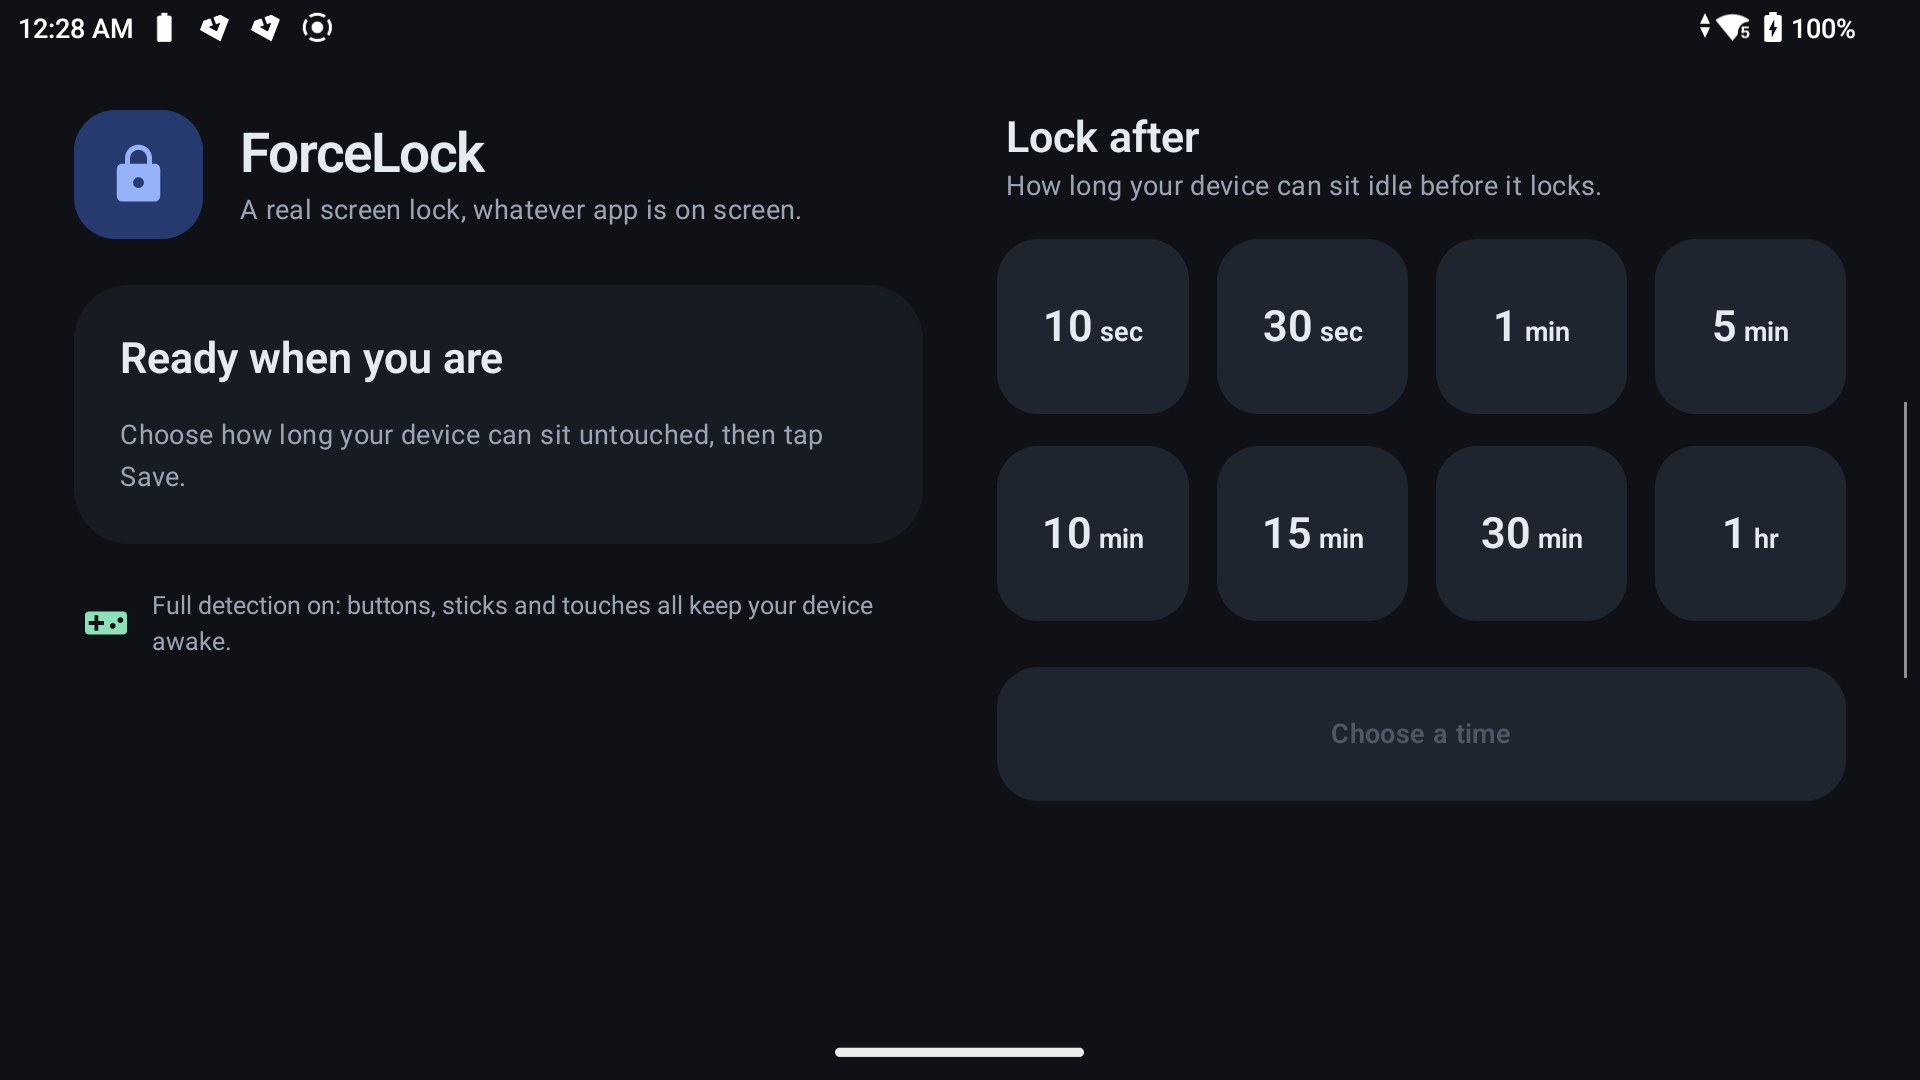
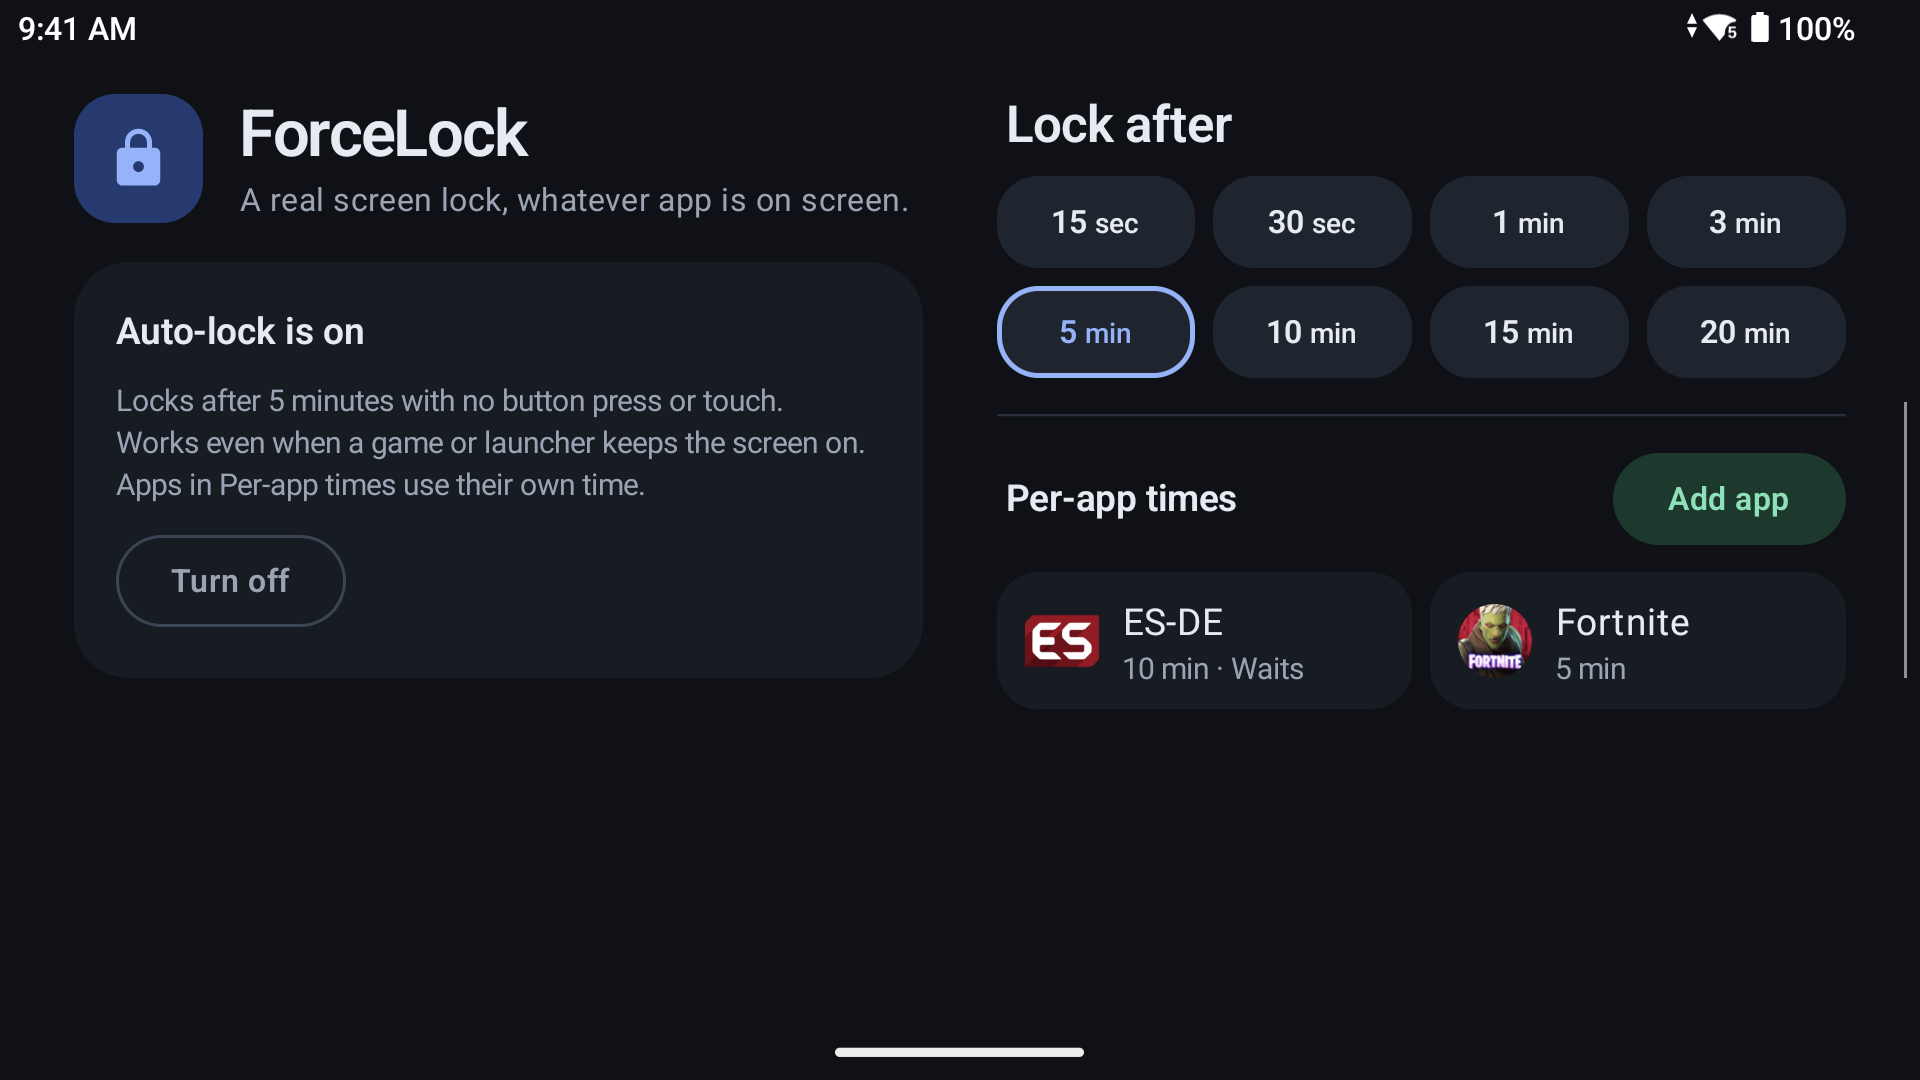
Update README screenshots for per-app times
Retake the setup and home screenshots on the Odin 2 Portal with the new
layout and lock times, and add one of the per-app dialog for ES-DE.

diff --git a/README.md b/README.md
@@ -10,8 +10,11 @@ Made for handhelds like the **AYN Odin 2 Portal** running **ES-DE**, and works o
 Android 9 or later.
 
 <p align="center">
-  <img src="docs/setup.png" alt="ForceLock setup screen" width="49%" />
-  <img src="docs/ready.png" alt="ForceLock lock time picker" width="49%" />
+  <img src="docs/setup.png" alt="ForceLock asking for the accessibility permission" width="49%" />
+  <img src="docs/ready.png" alt="ForceLock with auto-lock on and per-app times for ES-DE and Fortnite" width="49%" />
+</p>
+<p align="center">
+  <img src="docs/per-app.png" alt="Setting a per-app time for ES-DE that waits for downloads" width="49%" />
 </p>
 
 ## Why you'll like it
